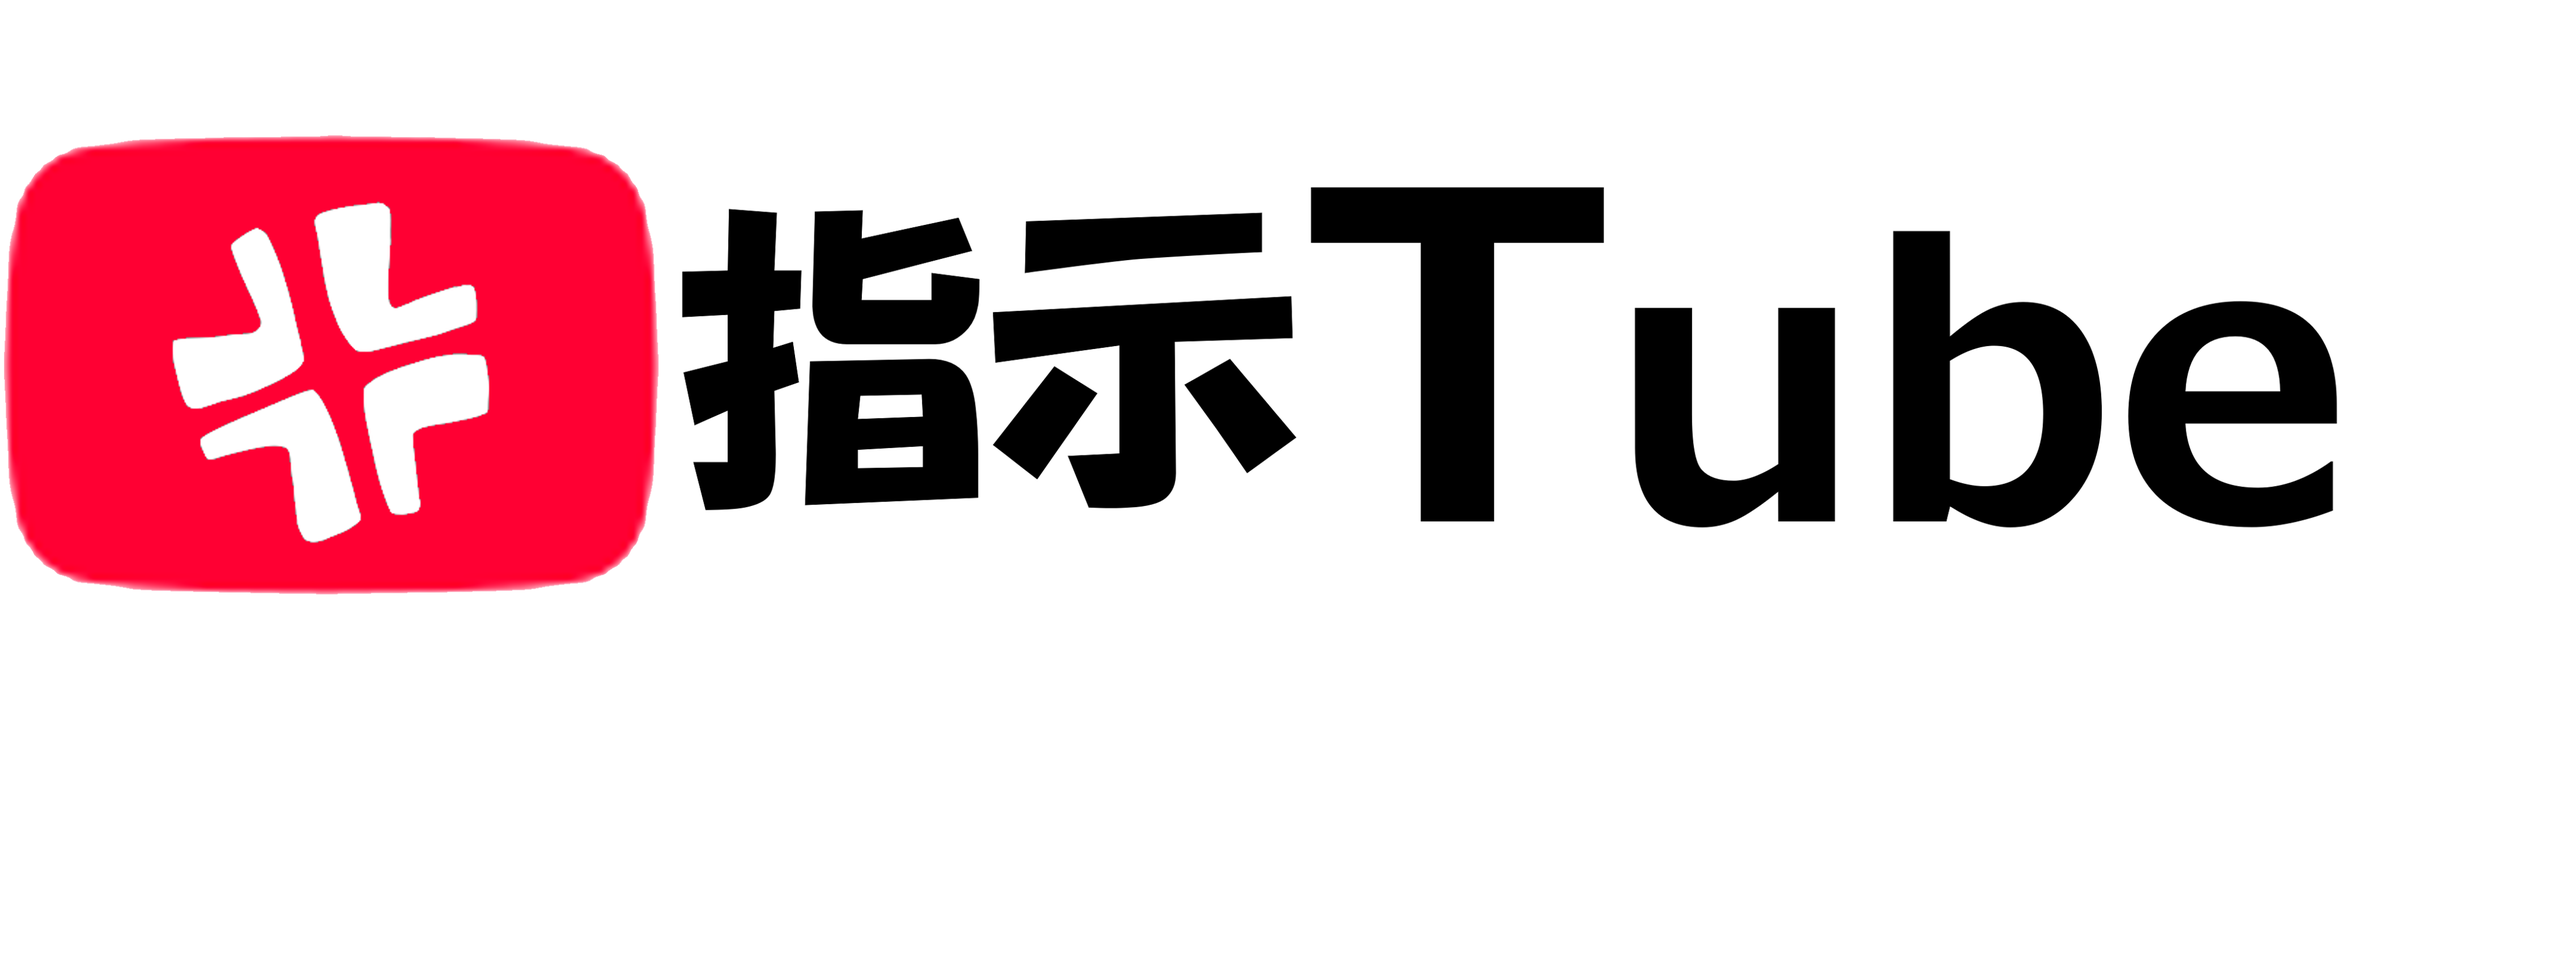
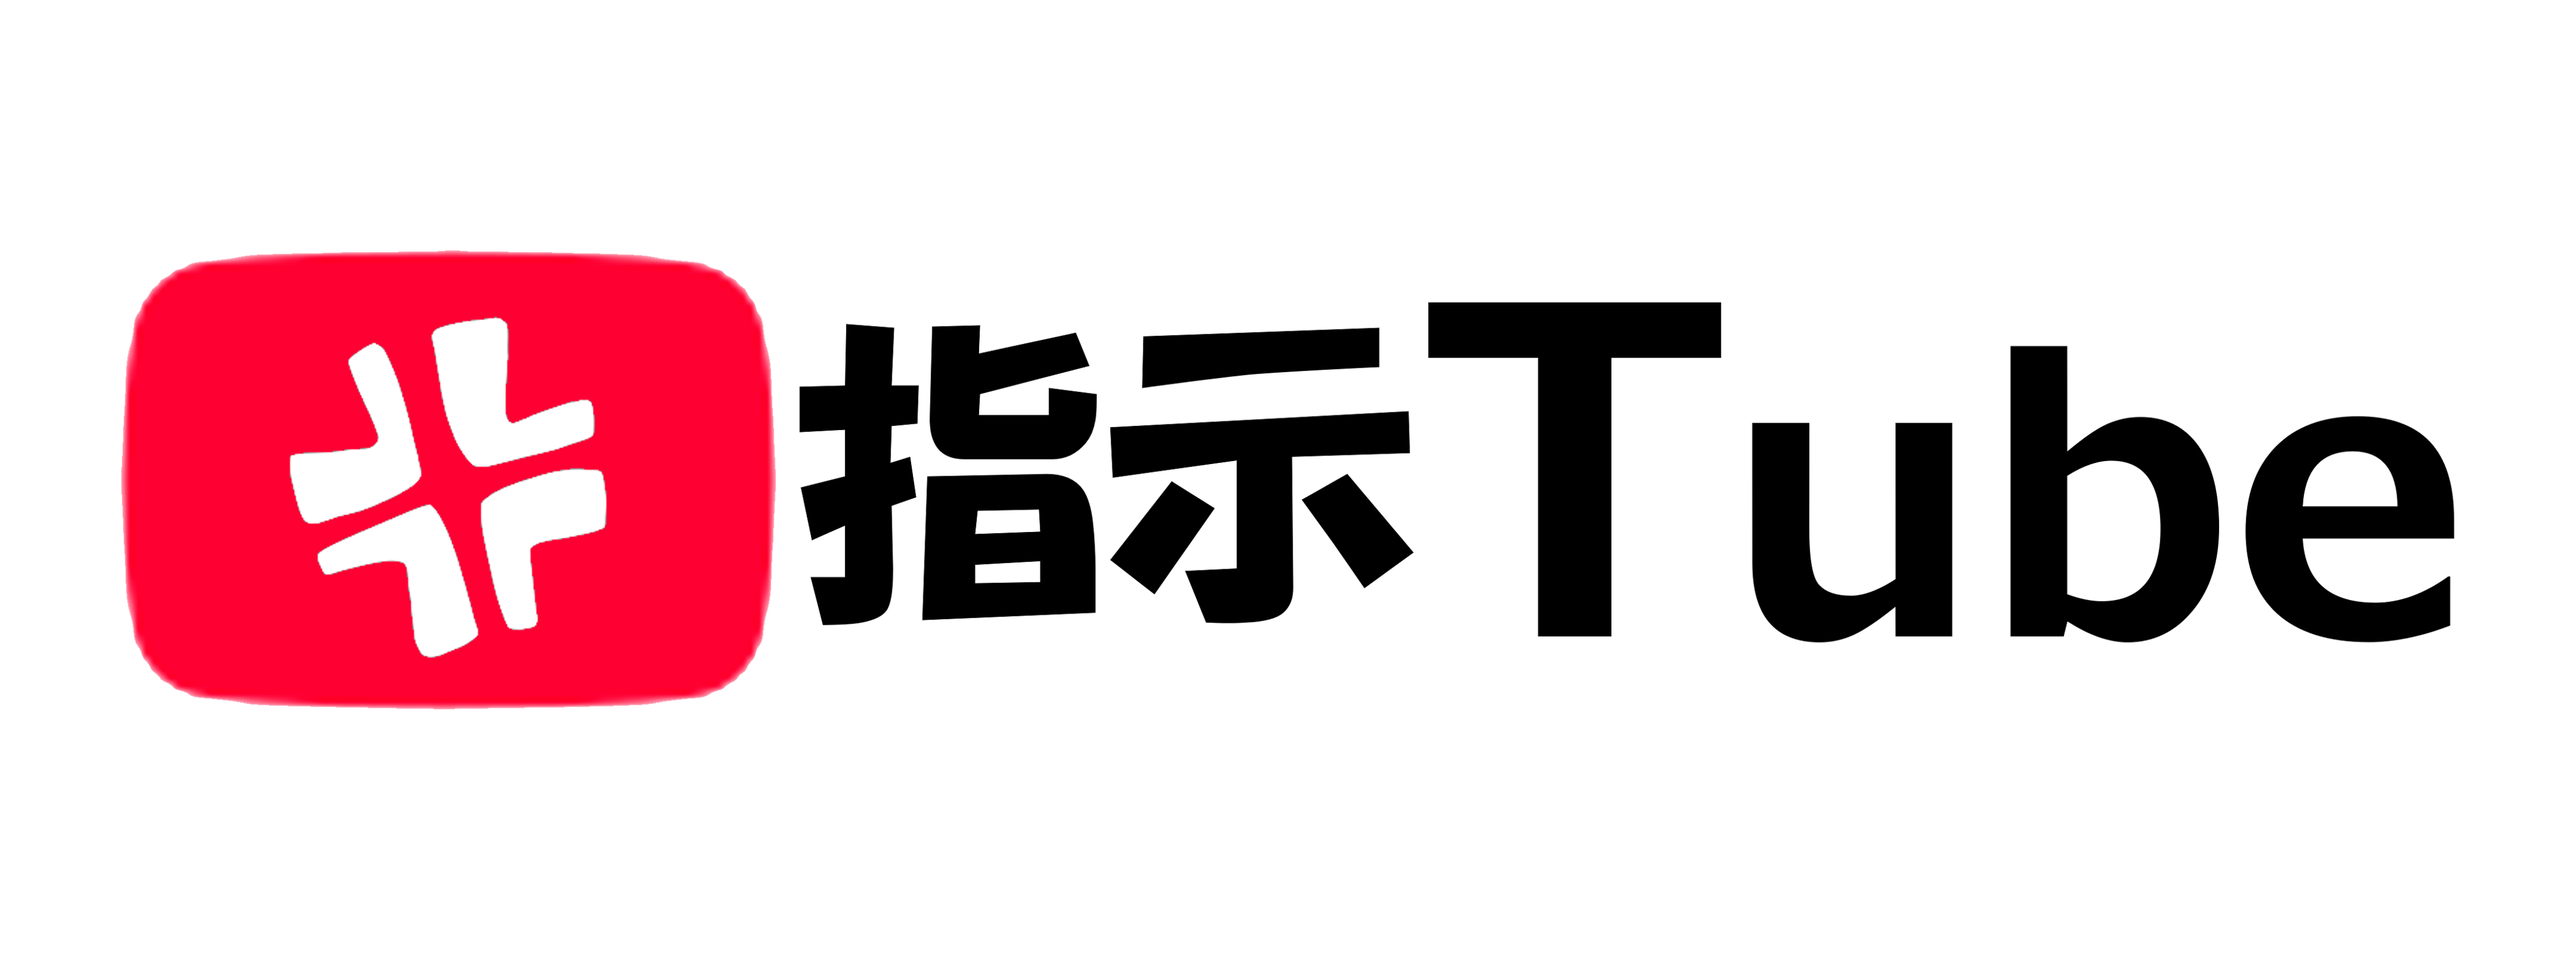
データの整理

Changed region(s): [[0.0, 0.1235, 0.9683, 0.7411]]

diff --git a/Source/Screen.h b/Source/Screen.h
@@ -9,6 +9,7 @@ namespace Screen
 	static const int HEIGHT = 1080;
 	static const int WIDTHSMALL = 1360;
 	static const int HEIGHTSMALL = 850;
+	static const int toolbar = 72;
 	static const BOOL WINDOW_MODE = TRUE;
 	static const char* WINDOW_NAME = "project";
 	static const float WINDOW_EXTEND = 1.0f;

diff --git a/Source/TitleScene.cpp b/Source/TitleScene.cpp
@@ -15,7 +15,7 @@ TitleScene::TitleScene()
 		sTimeInited = true;
 	}
 
-	hImage = LoadGraph("data/image/Title2.png");
+	hImage = LoadGraph("data/image/Title.png");
 	assert(hImage > 0);
 }
 
